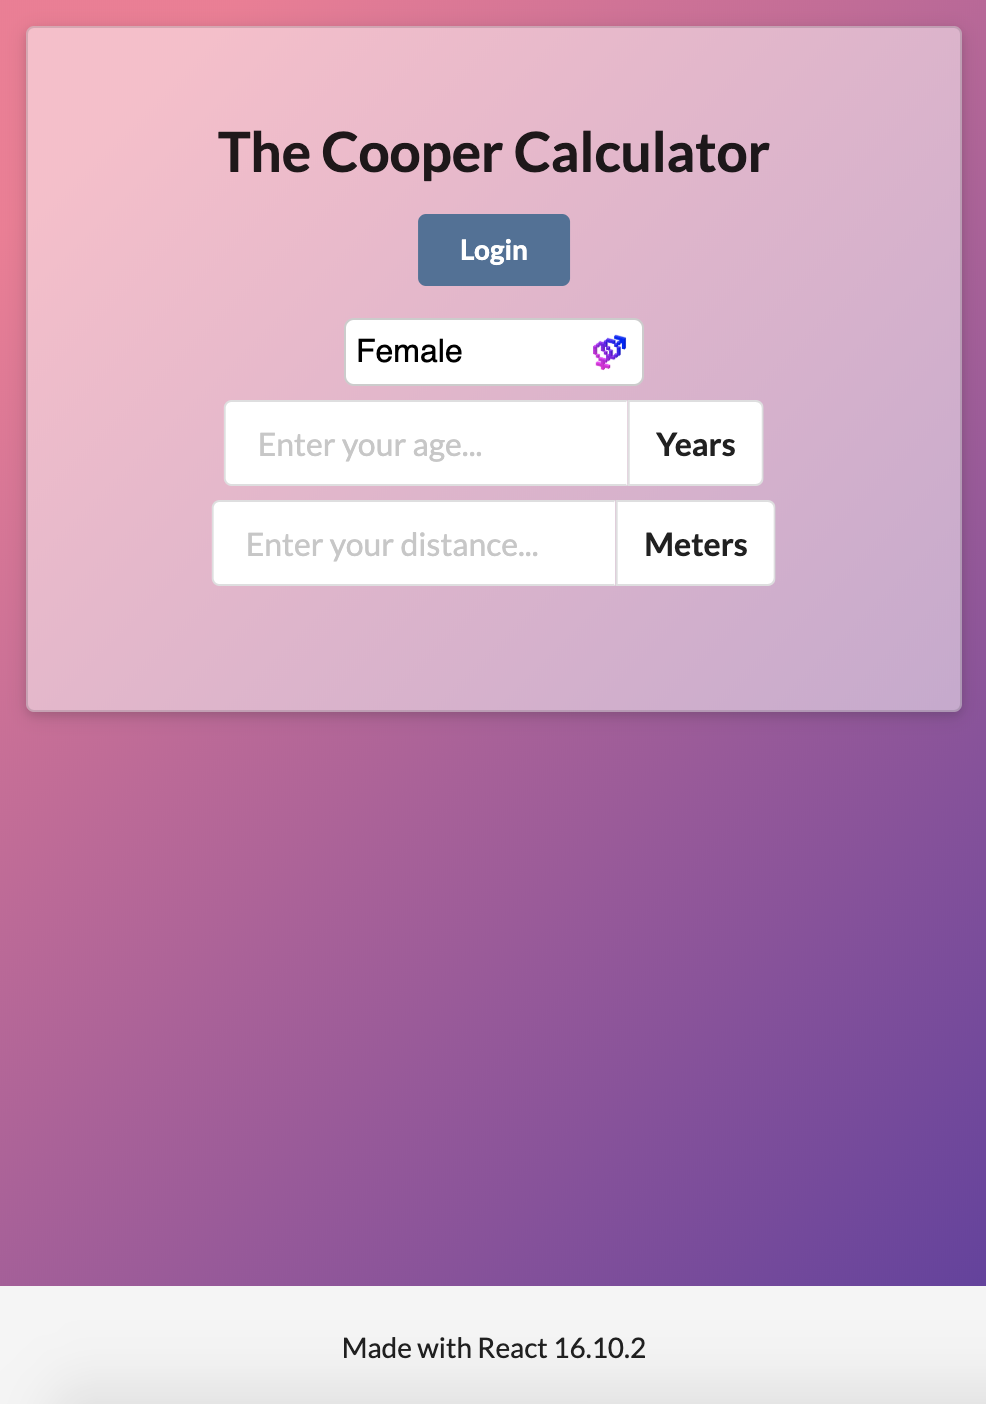
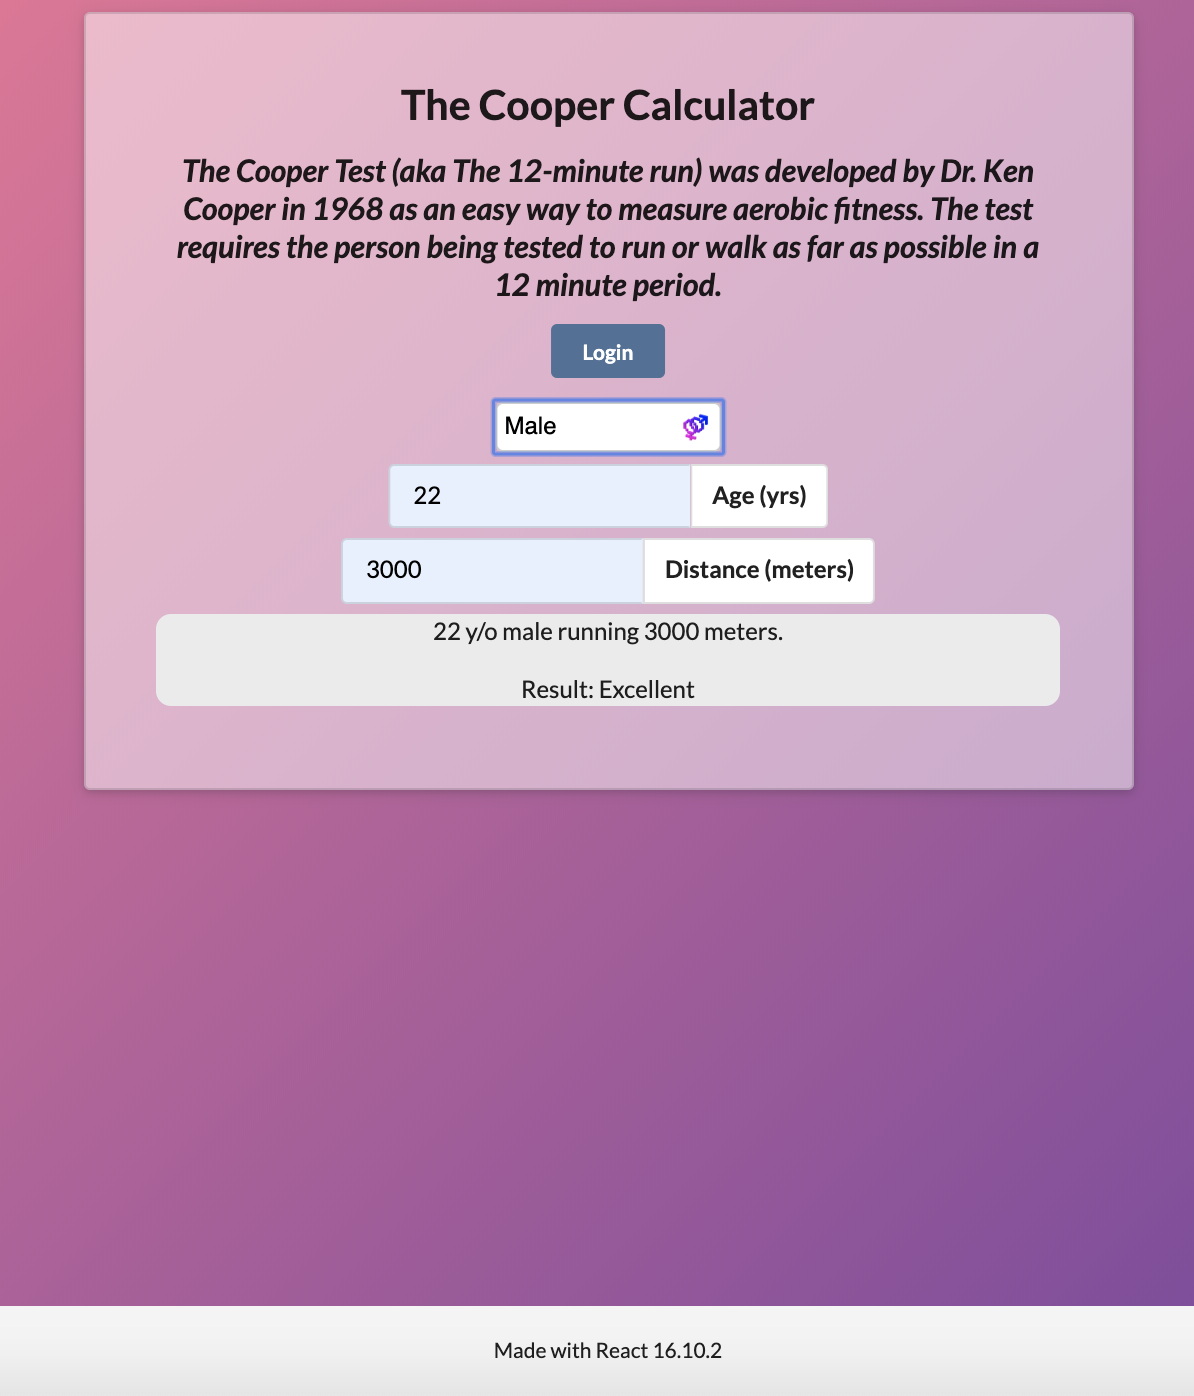
Update info, remove bmi calc for branch Clean up branch for cooper challenge, bmi addition will instead be re-implemented when merged from other branch once completely finished,

Changed region(s): [[0.0, 0.0, 0.9736, 0.5852], [0.0, 0.8317, 1.0, 0.9857]]

diff --git a/src/App.js b/src/App.js
@@ -53,7 +53,7 @@ class App extends Component {
     if (this.state.authenticated === true) {
       user = JSON.parse(sessionStorage.getItem('credentials')).uid
       renderLogin = (
-        <p className="hi-user"><Icon name="user outline"/>Hi {user}</p>
+        <p className="hi-user"><Icon name="user outline" />Hi {user}</p>
       )
       performanceDataIndex = (
         <Button color='vk' type='submit' id="show-index"
@@ -110,7 +110,11 @@ class App extends Component {
     return (
       <div>
         <div className="ui raised very padded text container segment">
-        <Header size='large' textAlign='center'>The Cooper Calculator</Header>
+          <Header size='large' textAlign='center'>The Cooper Calculator</Header>
+          <Header as='p' style={{ fontStyle: 'italic' }}>
+            The Cooper Test (aka The 12-minute run) was developed by Dr. Ken Cooper in 1968 as an easy way to measure aerobic fitness.
+            The test requires the person being tested to run or walk as far as possible in a 12 minute period.
+          </Header>
           {renderLogin}
           <InputFields
             inputChangeHandler={this.onChange.bind(this)}

diff --git a/src/Components/InputFields.jsx b/src/Components/InputFields.jsx
@@ -11,17 +11,17 @@ const InputFields = (props) => {
         </select>
         <div className="label-padding">
           <Input
-            label={{ basic: true, content: 'Years' }}
+            label={{ basic: true, content: 'Age (yrs)' }}
             labelPosition='right'
-            placeholder='Enter your age...'
+            placeholder='Enter age in years'
             id="age" onChange={props.inputChangeHandler}
           />
         </div>
         <div className="label-padding">
           <Input
-            label={{ basic: true, content: 'Meters' }}
+            label={{ basic: true, content: 'Distance (meters)' }}
             labelPosition='right'
-            placeholder='Enter your distance...'
+            placeholder='Enter total distance'
             id="distance" onChange={props.inputChangeHandler}
           />
         </div>
